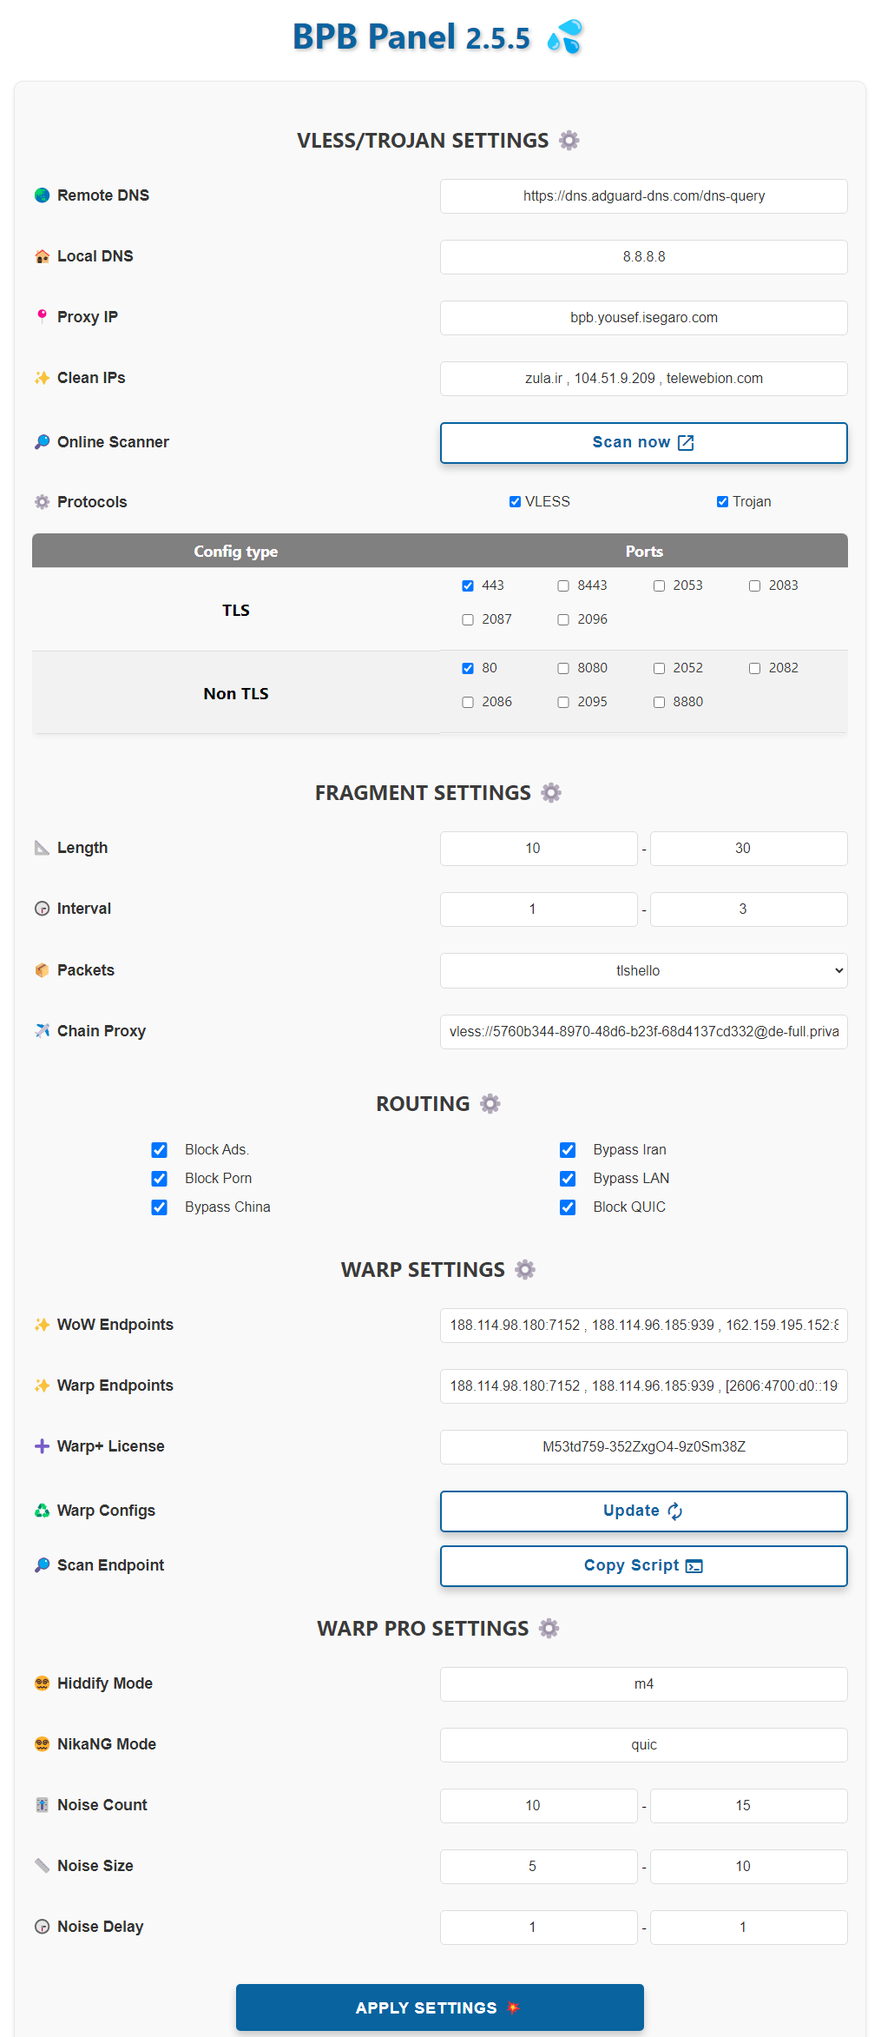
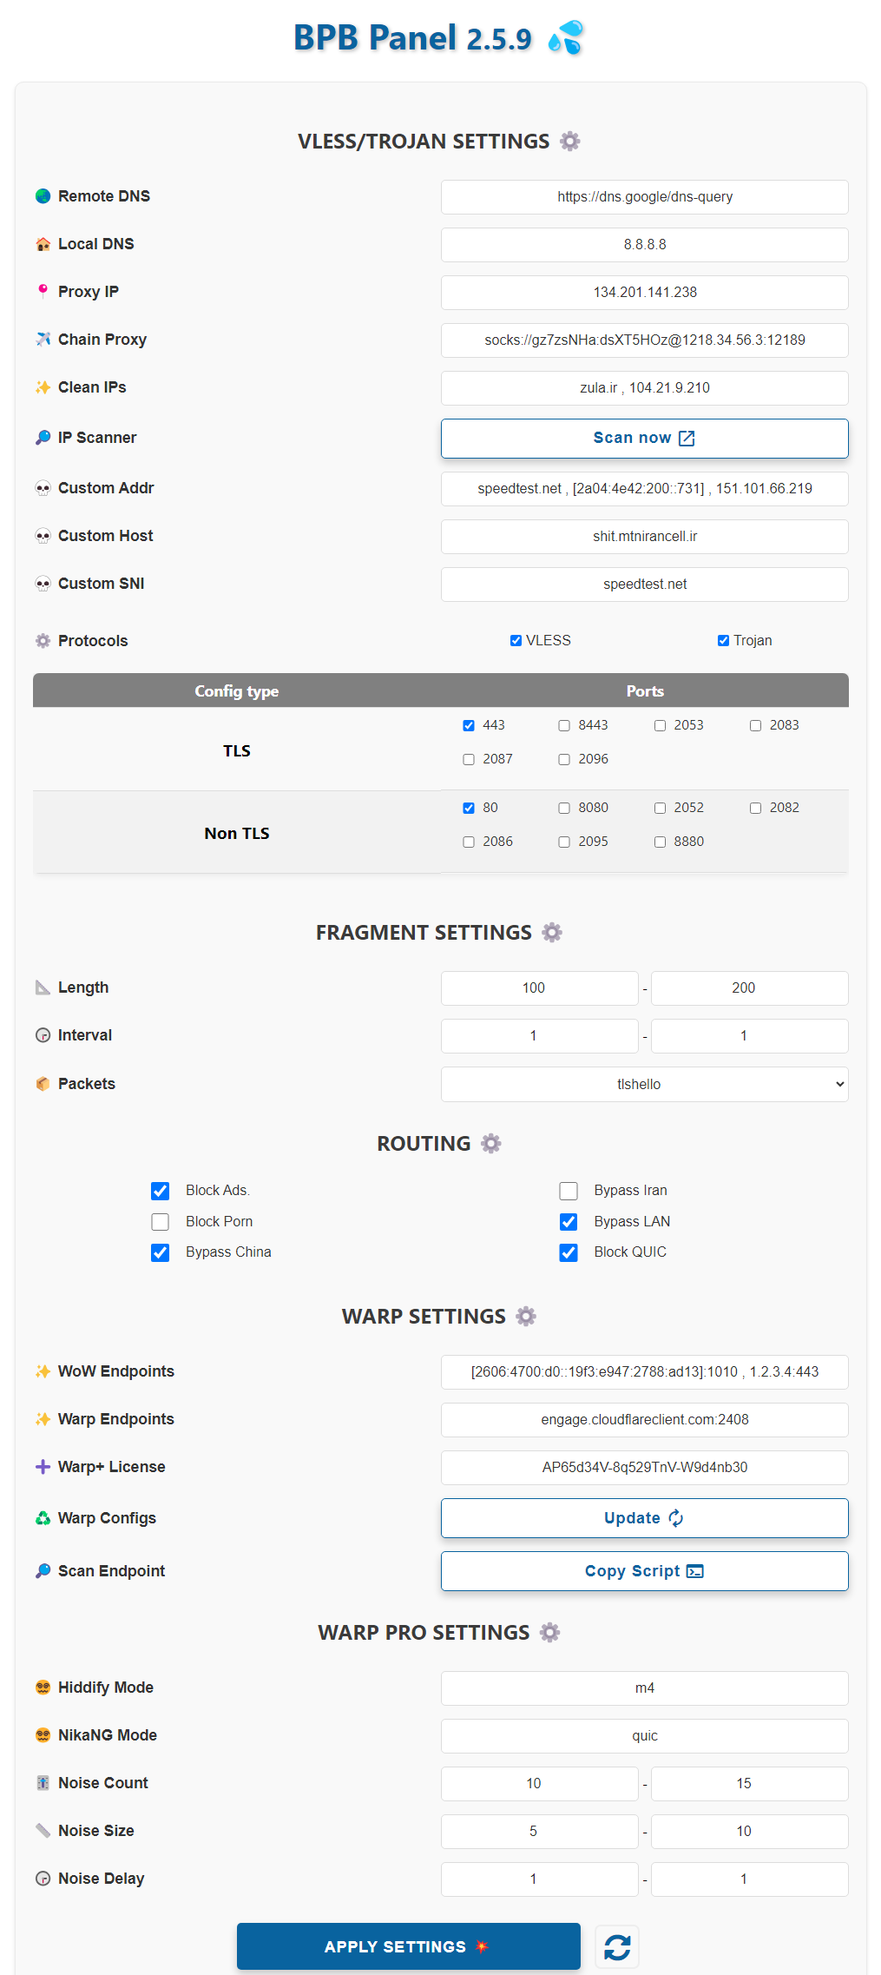
Update

diff --git a/docs/configuration_fa.md b/docs/configuration_fa.md
@@ -29,14 +29,14 @@
 - **مسیر کانفیگ Websocket Path:** هر کانفیگ یه مسیر متفاوت داره.
 - **آدرس کانفیگ:** از این 6 تا کانفیگ آدرس یکیشون www.speedtest.net هست که روی اکثر اپراتورا تمیزه، دومیش دامنهی خود ورکرتونه، و 3 تا 6 هم IP های دامنهی خودتون که اینام معمولا تمیزن. دوتا IPv4 و دوتا IPv6.
 
-چطور میشه تعدادشون رو اضافه کرد؟ توضیحات و تنظیمات بیشتر رو [اضافه کردن IP تمیز](#4-1-3--تنظیمات-ip-تمیز) و [اضافه کردن پورت](#4-1-5--انتخاب-port) , [انتخاب پروتکلها](#4-1-4--انتخاب-protocol) توضیح دادیم. 
+چطور میشه تعدادشون رو اضافه کرد؟ توضیحات و تنظیمات بیشتر رو [اضافه کردن IP تمیز](#4-1-3--تنظیمات-ip-تمیز) و [اضافه کردن پورت](#4-1-6--انتخاب-port) , [انتخاب پروتکلها](#4-1-6--انتخاب-port) توضیح دادیم. 
 > [!CAUTION]
 >برای استفاده از این کانفیگ ها Mux رو از تنظیمات هر اپلیکیشنی که استفاده میکنید خاموش کنید.
 
 > [!WARNING]
 > با استفاده از این Worker مرتب IP دیوایس شما تغییر میکنه، بنابراین برای کارهایی مثل ترید و PayPal و حتی سایتهایی مثل Hetzner که حساس هستن ازش استفاده نکنید، امکان Ban شدن هست. در مورد فیکس کردن IP دو تا راهحل دادیم، یکی [تنظیم Proxy IP](#4-1-2--تنظیمات-proxy-ip) موقع راهاندازی و دومی [استفاده از Chain Proxy](#4-2-2--تنظیمات-chain-proxy).
 <br><br>
-## 2 - سابسکریپشن و کانفیگهای Fragment
+## 2 - سابسکریپشن Fragment
 
 > [!NOTE]
 > **خواص کانفیگای Fragment این پنل**
@@ -60,56 +60,48 @@
 > 9- باز شدن تمام سایتا حتی اونایی که روی کلادفلر هستن (ورکرای قدیمی این مشکل رو داشتن)
 <br>
 
+### 2-1 - سابسکریپشن Fragment برای Xray
+<p align="center">
+  <img src="assets/images/Fragment-Sub.jpg">
+</p>
+
+منظور برنامههایی هستن که از هستهی Xray استفاده میکنن، در اصل ردیف اول جدول FRAGMENT SUB در پنل، وارد کردنش داخل اپ هم مثل ساب معمولیه. کانفیگهای این قسمت یه `F` تو اسمشون دارن.
+
+این ساب همون تعداد کانفیگ که تو ساب معمولی داشتید رو با فرگمنت بهتون میده (با تنظیمات فرگمنتی که توی پنل اعمال کردید) به اضافهی کانفیگ **Best Ping** و **Best Fragment** و **Workerless**. شما هر تنظیماتی که داخل پنل انجام بدید وقتی ساب رو آپدیت کنید روی همهی کانفیگا اعمال میشه.
+> [!CAUTION]
+> برای اینکه به مشکل نخورید ورژن v2rayNG باید حداقل 1.8.19 و ورژن v2rayN باید حداقل 6.42 باشه.
+
 > [!TIP]
 > کانفیگ WorkerLess بدون ورکر خیلی از سایتها و اپلیکیشنهای فیلتر شده رو باز میکنه! مثل یوتیوب، توییتر، Google Play و سایتهای فیلتر شدهی دیگه که اینجا جا نمیشه. حواستون باشه که این کانفیگ چون از ورکر استفاده نمیکنه IP شما رو تغییر نمیده بنابراین برای کارهای امنیتی مناسب نیست. تغییراتی که برای فرگمنت در پنل اعمال میکنید روی این کانفیگ هم اعمال میشه بجز Chain Proxy.
 
 > [!TIP]
 > کانفیگ Best Fragment میاد 18 مقدار مختلف فرگمنت رو اعمال میکنه و هر کدوم سرعت بیشتری داشته باشن رو بر اساس اپراتور شما انتخاب مبکنه! این 18 حالت جوری انتخاب شده که هیچ بازهای از قلم نیافته و کانفیگ تمام بازههای کوچیک و بزرگ رو هر 1 دقیقه تست کنه و به بهترینش وصل بشه. 
-
-
-در ادامه نحوه استفاده از این کانفیگها رو توضیح دادیم. تنظیمات پیشرفته مربوط به فرگمنت هم [اینجا](#4-2--تنظیمات-fragment) توضیح داده شده.
+تنظیمات پیشرفته مربوط به فرگمنت هم [اینجا](#4-2--تنظیمات-fragment) توضیح داده شده.
 <br><br>
-### 2-1- استفاده روی موبایل
 
-<p align="center">
-  <img src="assets/images/Fragment-Sub.jpg">
-</p>
+### 2-2- اسابسکریپشن Fragment برای Hiddify
 
-یه جدول داریم که یه ساب میده و برای اپلیکیشنهای v2rayNG و v2rayN و Streisand و NikaNG و ... هست.
-وارد کردنش داخل اپ هم مثل ساب معمولیه.
+ردیف دوم جدول FRAGMENT SUB برای استفادهی فرگمنت روی برنامهی Hiddify هست، با یک تفاوت. بخاطر محدودیتهای این برنامه خیلی از تنظیمات پنل روی این ساب اعمال نمیشه، در اصل خود برنامه بازنویسی میکنه این تنظیمات رو. کانفیگهای این قسمت یه `F` تو اسمشون دارن. تنظیمات زیر رو باید دستی در برنامه Hiddify اعمال کنید و در حال حاضر از پنل اعمال نمیشن:
 
-این ساب همون تعداد کانفیگ که تو ساب معمولی داشتید رو با فرگمنت بهتون میده (با تنظیمات
-فرگمنتی که توی پنل اعمال کردید) به اضافهی کانفیگ **Best Ping** و **Best Fragment** و **Workerless**. شما هر تنظیماتی که داخل پنل انجام بدید وقتی ساب رو آپدیت کنید روی همهی کانفیگا اعمال میشه.
+ 1. Remote DNS
+ 2. Local DNS
+ 3. Fragment Packets
+ 4. Routing
+
 > [!CAUTION]
-> برای اینکه به مشکل نخورید ورژن v2rayNG باید حداقل 1.8.19 و ورژن v2rayN باید حداقل 6.42 باشه.
+> 1- حتما Remote DNS رو از تنظیمات برنامه تغییر بدید به یک DOH مثل:
+> https://8.8.8.8/dns-query یا https://94.140.14.14/dns-query
+> در صورتی که از ...//:udp یا IP خالی این قسمت استفاده کنید ورکرتون کار نمیکنه.
+> 
+> 2- اگر در برنامه دستی Fragment رو روشن کرده باشید تنظیمات فرگمنت پنل اعمال نمیشه.
 
-
-> [!NOTE]
->اپلیکیشنهای Nekobox و Hiddify Next این کانفیگا رو نداره چون Nekobox کلا فرگمنت رو پشتیبانی نمیکنه. برای برنامهی Hiddify Next اول از ساب Normal کانفیگا رو بگیرید، بعد از تنظیمات خود اپلیکیشن باید Fragment رو اینجوری فعال کنید:
-
+البته یه راه دیگه هم هست و اونم اینکه ساب نرمال رو وارد برنامه Hiddify بکنید و مثل عکس زیر فرگمنت رو خودتون فعال کنید:
 <p align="center">
   <img src="assets/images/Hiddify_fragment.jpg">
 </p>
 <br>
 
-### 2-2- استفاده از فرگمنت در DESKTOP - Nekoray
-
-<p align="center">
-  <img src="assets/images/Fragment-Configs.jpg">
-</p>
-
-این بخش هم همون کانفیگهای فرگمنت رو میده برای برنامهی Nekoray روی Windows و Linux.
-
-حالا چجوری تو اپ وارد کنیم؟ اول Copy Config رو میزنید بعد داخل نکوری:
->1. Right Click
->2. New Profile
->3. type > Custom (xray config)
->4. Paste
-   
-در اینجا هم دقت کنید که **Best Ping** را داریم.
-<br><br>
-
-### 3- سابسکریپشنهای Warp
+## 3- سابسکریپشنهای Warp
 
 <p align="center">
   <img src="assets/images/Warp-Configs.jpg">
@@ -126,6 +118,8 @@
 
 <br><br>
 ## 4 - تنظیمات پیشرفته
+
+اول بگم اگر هر تغییر اشتباهی دادید نگران نباشید، بغل دکمه APPLY SETTINGS یه دکمه Reset گذاشتم که پنل رو به تنظیمات پیشفرض برمیگردونه.
 
 ### 4-1- تنظیمات VLESS/TROJAN
 
@@ -203,7 +197,21 @@
 > حتما بعد از اعمال ساب رو آپدیت کنید.
 <br>
 
-#### 4-1-4- انتخاب Protocol
+#### 4-1-4- تنظیمات Custom
+
+3 تا فیلد داریم به اسم Custom، در اصل مخفف Custom CDN. برای مواقعی استفاده میشه که شما میاید دامنهی Worker خودتون رو میبرید پشت یه CDN دیگه، مثلا Fastly یا Gcore یا هر CDN دیگهای. این 3 قسمت به ترتیب عبارتند از:
+
+1- بخش `Custom Addr` که در اصل حکم همون IP ها یا IP تمیزهای کلادفلر رو داره. ولی از هر CDN که اینجا استفاده میکنید باید IP های خودشو بذارید، نمیشه IP کلادفلرو بذارید برای Fastly یا Gcore. اینجام مثل IP تمیز که داشتیم میتونید دامنه، IP ورژن 4 یا 6 با ویرگول بذارید، حواستون باشه IPv6 باید بین [ ] باشه مثل:
+> speedtest.net , [2a04:4e42:200::731] , 151.101.66.219
+
+2- بخش `Custom Host` باید host که توی اون CDN تعریف کردید و اشاره میکنه به ورکر خودتون رو بذارید. مثلا توی Fastly میشه یه آدرس دامنه فیک تعریف کرد.
+
+3- بخش `Custom SNI` هم میتونید اون دامنهی فیک رو بذارید هم یه سایتی که روی همون CDN باشه. مثلا سایت speedtest.net (بدون wwww) روی CDN Fastly هست.
+
+حالا بعد از تنظیم کردن این بخش، کانفیگاش به سابهای Normal اضافه میشه، همهی سابهای Sing-box و Clash و v2ray و .... اسم این کانفیگها یه `C` داره توش که با بقیه قاطی نشه.
+<br>
+
+#### 4-1-5- انتخاب Protocol
 
 میتونید یکی یا هر دو پروتکل VLESS و Trojan رو فعال کنید.
 > [!CAUTION]
@@ -218,7 +226,7 @@
 > `tls://IP` مثل `tls://dns.google` , `tls://cloudflare-dns.com` ....
 <br>
 
-#### 4-1-5- انتخاب Port
+#### 4-1-6- انتخاب Port
 
 از این بخش میتونید پورتهای مورد نیازتون رو انتخاب کنید. یه نعدادیشون بهتون کانفیگ TLS میدن که امنتره ولی وقتایی که روی TLS و Fragment اختلال ایجاد میشه این کانفیگا وصل میشن.
 > [!CAUTION]
@@ -263,14 +271,14 @@
   <img src="assets/images/Proxy_IP_settings.jpg">
 </p>
 
-قبلا گفتیم که میشه یه دونه Proxy IP گذاشت و IP رو برای سایتهای پشت کلادفلر ثابت کرد، اما کماکان وقتی سایتای معمولی رو باز میکنیم IP ما متعلق به ورکر هست که اینم هر چند وقت یک بار عوض میشه. برای اینکه کلا برای همهی سایتها IP رو فیکس کنیم این قسمت اضافه شده. میتونیم یه کانفیگ VLESS رایگان که حتی فیلتر هم شده باشه (بشرطی که فقط تو ایران فیلتر شده باشه ولی کار کنه) این قسمت بذاریم و IP ما برای همیشه ثابت میشه به IP این کانفیگ.
+قبلا گفتیم که میشه یه دونه Proxy IP گذاشت و IP رو برای سایتهای پشت کلادفلر ثابت کرد، اما کماکان وقتی سایتای معمولی رو باز میکنیم IP ما متعلق به ورکر هست که اینم هر چند وقت یک بار عوض میشه. برای اینکه کلا برای همهی سایتها IP رو فیکس کنیم این قسمت اضافه شده. میتونیم یه کانفیگ VLESS یا Socks یا Http رایگان که حتی فیلتر هم شده باشه (بشرطی که فقط تو ایران فیلتر شده باشه ولی کار کنه) این قسمت بذاریم و IP ما برای همیشه ثابت میشه به IP این کانفیگ.
    
 > [!CAUTION]
 > 1- این کانفیگ نباید خودش ورکر باشه وگرنه بازم IP نهاییتون تغییر میکنه.
 >
 > 2- برای دریافت کانفیگ رایگان منبع زیاده، من سایت [racevpn.com](https://racevpn.com) رو توصیه میکنم که البته محدودیت زمانی داره، بر اساس کشور میتونید کانفیگ بگیرید. از کانفیگای [IRCF](https://ircfspace.github.io/tconfig/) و یا بات تلگرامی [ی ب خ](https://t.me/TheTVCbot) هم میتونید استفاده کنید ولی ممکنه بعضی از کانفیگاشون از کار افتاده باشه.
 > 
-> 3- کانفیگ فقط میتونه VLESS باشه و یکی از انواع زیر:
+> 3- کانفیگ VLESS میتونه یکی از انواع زیر باشه:
 > 
 > `Reality TCP`
 > 
@@ -294,8 +302,26 @@
 > 
 > `TCP Header`
 >
-> 4- این بخش فقط روی کانفیگهای Fragment اعمال میشه، بعد از اعمال حتما ساب رو آپدیت کنید.
+> 5- کانفیگ Socks میتونه یکی از اشکال زیر باشه:
+>
+> socks://`address`:`port`
+>
+> socks://`user`:`pass`@`address`:`port`
+>
+> 6- کانفیگ Http میتونه یکی از اشکال زیر باشه:
+>
+> http://`address`:`port`
+>
+> http://`user`:`pass`@`address`:`port`
+> 
+> 7- این بخش فقط روی تمام سابها به جز ردیف اول جدول Normal و سابهای Warp اعمال میشه، بعد از اعمال حتما ساب رو آپدیت کنید. ولی ساب نرمال اون کانفیگ رو بصورت تکی بهتون میده. مثلا میتونید تو برنامهی Nekobox یا Husi در قسمت Group ساب خودتون رو ویرایش کنید و این کانفیگ رو بعنوان Landing Proxy قرار بدید، اینجوری ساب Chain میشه. جدیدا برنامه v2rayNG هم از ورژن 1.9.1 این قابلیت رو اضافه کرده، باید اسم کانفیگ رو کپی کنید، برید Subscription group setting سابتون رو ویرایش کنید و اسم رو در قسمت `Next proxy remarks` جاگذاری کنید.
 
+> [!IMPORTANT]
+> 1- گر از کانفیگ VLESS TLS برای Chain استفاده میکنید حتما باید پورتش 443 باشه وگرنه پنل بهتون اجازه نمیده.
+> 
+> 2- کانفیگهای VLESS که برای alpn مقدار randomized دارن روی Clash کار نمیکن چون ساپورت نمیکنه.
+>
+> 3- کانفیگ VLESS WS برای Chain کردن روی Sing-box مناسب نیست، باگ داره.
 <br>
 
 ### 4-3- تنظیمات Routing

diff --git a/docs/faq.md b/docs/faq.md
@@ -68,6 +68,13 @@
 - از تنظیمات `Prefer IPv6` رو خاموش کنید.
 <br>
 
-16- چرا تماس صوتی تلگرام کار نمیکنه؟
+16- چرا تماس صوتی تلگرام یا clubhouse کار نمیکنه؟
 - کلادفلر نمیتونه درست پروتکل UPD رو برقرار کنه، در حال حاضر راه حل موثری براش نیست.
+<br>
 
+17- کانفیگ نرمال Trojan چرا وصل نمیشه؟
+- از هر برنامهای که استفاده میکنید باید Remote DNS رو چک کنید که مثل پنل باشه، فرمتهای udp://1.1.1.1 یا 1.1.1.1 با ترجان کار نمیکنن. فرمتهای زیر مناسبن:
+- `https://8.8.8.8/dns-query`
+- `tcp://8.8.8.8`
+- `tls://8.8.8.8`
+<br>
